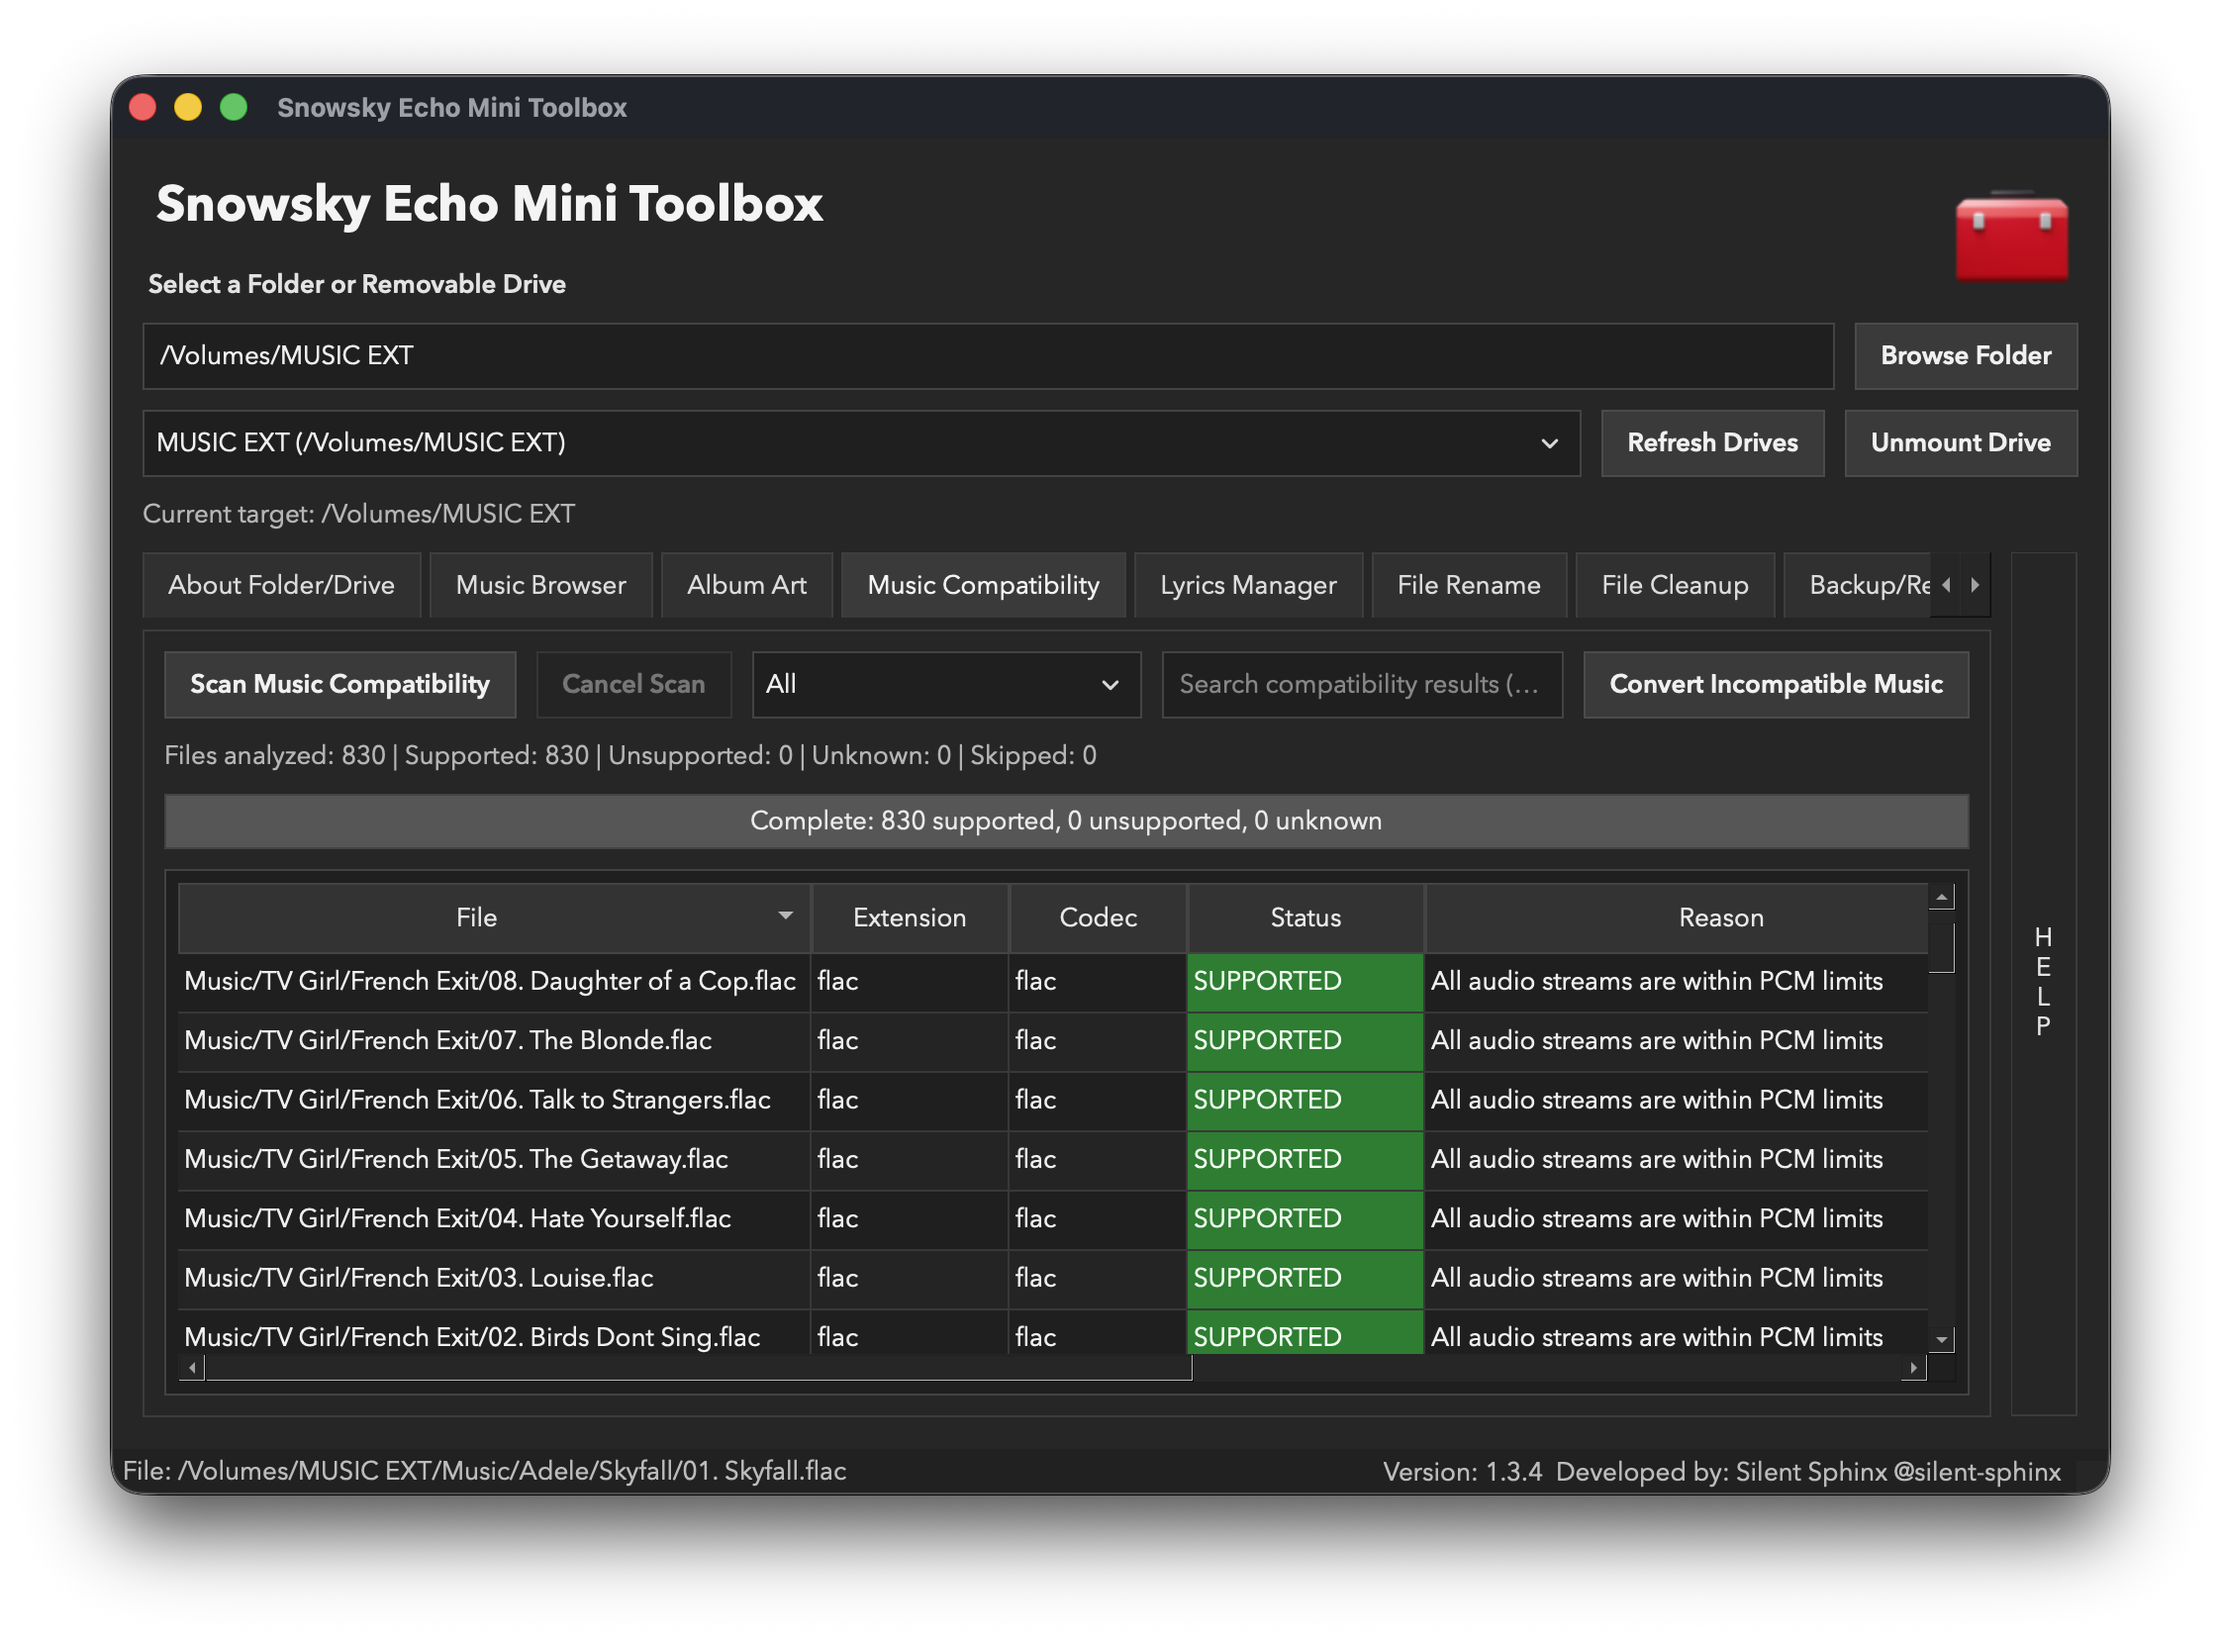
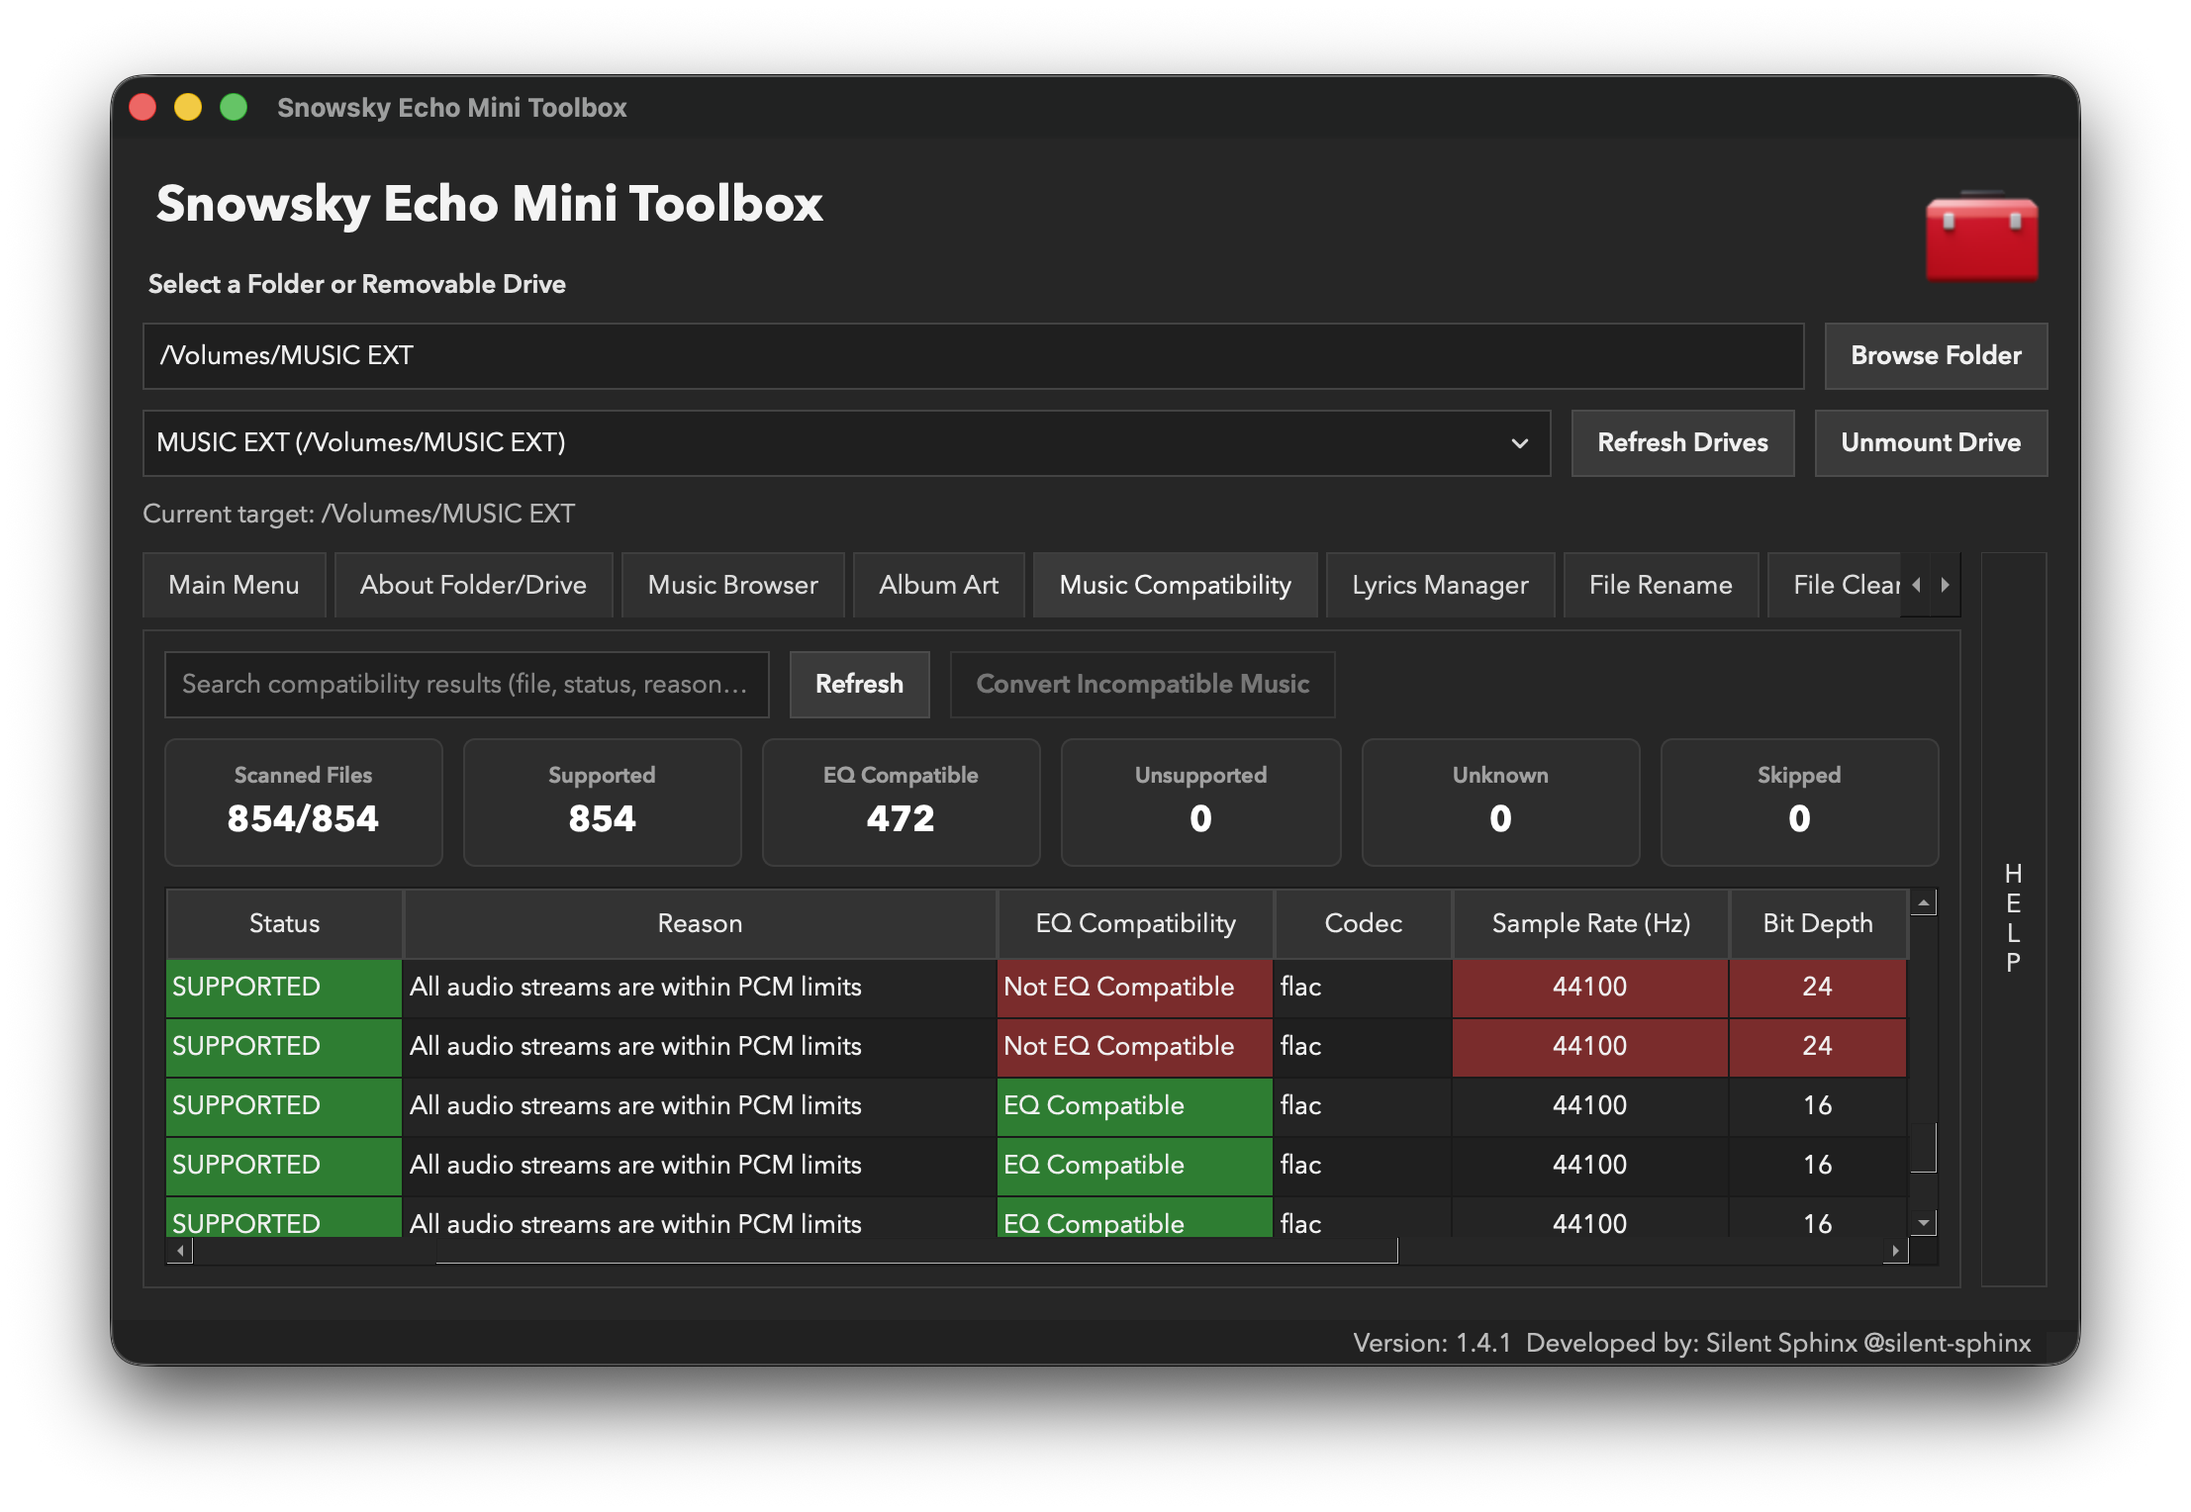
feat. Main Menu & Updated README.md

diff --git a/src/window.py b/src/window.py
@@ -27,6 +27,7 @@ from PySide6.QtWidgets import (
     QDialog,
     QFileDialog,
     QFileSystemModel,
+    QGridLayout,
     QHBoxLayout,
     QHeaderView,
     QInputDialog,
@@ -1797,6 +1798,7 @@ class ToolboxWindow(QMainWindow):
         self._dir_size_scan_worker: DirectorySizeScanWorker | None = None
         self._dir_size_scan_target: str | None = None
         self._pending_dir_size_scan_target: str | None = None
+        self._main_menu_tab_index = -1
         self._about_tab_index = -1
         self._music_compatibility_tab_index = -1
         self._lyrics_manager_tab_index = -1
@@ -2768,6 +2770,78 @@ class ToolboxWindow(QMainWindow):
         backup_restore_layout.addWidget(transfer_section)
         backup_restore_layout.addStretch(1)
 
+        main_menu_tab = QScrollArea()
+        main_menu_tab.setWidgetResizable(True)
+        main_menu_tab.setFrameShape(QFrame.NoFrame)
+        main_menu_content = QWidget()
+        main_menu_outer_layout = QVBoxLayout(main_menu_content)
+        main_menu_outer_layout.setContentsMargins(20, 20, 20, 20)
+        main_menu_outer_layout.setSpacing(20)
+        
+        welcome_text = (
+            "Welcome to the Snowsky Echo Mini Toolbox, your one-stop shop for organizing and converting your music media. "
+            "To start, select the location of your media by browsing or choosing one of the mounted drives at the top of the interface.\n\n"
+            "It is recommended to connect your microSD card directly to your computer using a USB reader, rather than plugging in the Snowsky Echo Mini itself, as the device uses a slower interface."
+        )
+        welcome_lbl = QLabel(welcome_text)
+        welcome_lbl.setWordWrap(True)
+        welcome_lbl.setStyleSheet("font-size: 14px; color: #E3E3E3; line-height: 1.4;")
+        main_menu_outer_layout.addWidget(welcome_lbl)
+        
+        main_menu_layout = QGridLayout()
+        main_menu_layout.setSpacing(15)
+        
+        tools = [
+            ("ℹ About Folder/Drive", "View details and properties of the selected target.", "_about_tab_index"),
+            ("📁 Music Browser", "Browse and manage music files with an integrated player.", "_directory_tab_index"),
+            ("🖼 Album Art", "Scan, download, and update embedded album artwork.", "_album_art_tab_index"),
+            ("🎵 Music Compatibility", "Check and fix audio format compatibility issues.", "_music_compatibility_tab_index"),
+            ("🎤 Lyrics Manager", "Download and embed synchronized lyrics (LRC).", "_lyrics_manager_tab_index"),
+            ("🏷 File Rename", "Bulk rename files based on rules and metadata.", "_file_rename_tab_index"),
+            ("🧹 File Cleanup", "Clean up unwanted and unsupported files.", "_cleanup_tab_index"),
+            ("📝 Metadata Manager", "Edit audio tags and properties in bulk.", "_metadata_manager_tab_index"),
+            ("💾 Backup/Restore", "Backup to zip or transfer files to another drive.", "_backup_restore_tab_index"),
+        ]
+        
+        row, col = 0, 0
+        for title, desc, attr_name in tools:
+            tile = QPushButton()
+            tile.setObjectName("mainMenuTile")
+            tile.setCursor(Qt.PointingHandCursor)
+            tile.setMinimumHeight(100)
+            
+            tile_layout = QVBoxLayout(tile)
+            tile_layout.setContentsMargins(15, 15, 15, 15)
+            tile_layout.setSpacing(8)
+            
+            title_lbl = QLabel(title)
+            title_lbl.setAttribute(Qt.WA_TransparentForMouseEvents)
+            title_lbl.setStyleSheet("font-size: 15px; font-weight: bold; color: #E3E3E3;")
+            
+            desc_lbl = QLabel(desc)
+            desc_lbl.setAttribute(Qt.WA_TransparentForMouseEvents)
+            desc_lbl.setWordWrap(True)
+            desc_lbl.setStyleSheet("color: #A0A0A0; font-size: 12px;")
+            
+            tile_layout.addWidget(title_lbl)
+            tile_layout.addWidget(desc_lbl)
+            tile_layout.addStretch()
+            
+            tile.clicked.connect(lambda checked=False, a=attr_name: self.tabs.setCurrentIndex(getattr(self, a)) if getattr(self, a, -1) != -1 and self.tabs.isTabEnabled(getattr(self, a)) else None)
+            
+            main_menu_layout.addWidget(tile, row, col)
+            col += 1
+            if col > 2:
+                col = 0
+                row += 1
+                
+        main_menu_layout.setRowStretch(row + 1, 1)
+        main_menu_outer_layout.addLayout(main_menu_layout)
+        main_menu_outer_layout.addStretch(1)
+        main_menu_content.setLayout(main_menu_outer_layout)
+        main_menu_tab.setWidget(main_menu_content)
+
+        self._main_menu_tab_index = self.tabs.addTab(main_menu_tab, "Main Menu")
         self._about_tab_index = self.tabs.addTab(about_tab, "About Folder/Drive")
         self._directory_tab_index = self.tabs.addTab(browser_tab, "Music Browser")
         self._album_art_tab_index = self.tabs.addTab(album_art_tab, "Album Art")
@@ -2781,7 +2855,7 @@ class ToolboxWindow(QMainWindow):
         self._backup_restore_tab_index = self.tabs.addTab(backup_restore_tab, "Backup/Restore")
         
         for i in range(self.tabs.count()):
-            if i != self._about_tab_index:
+            if i not in (self._main_menu_tab_index, self._about_tab_index):
                 self.tabs.setTabEnabled(i, False)
 
         self.tabs.currentChanged.connect(self.on_tab_changed)
@@ -2807,6 +2881,7 @@ class ToolboxWindow(QMainWindow):
         self.statusBar().addPermanentWidget(self.status_version_label)
         self.statusBar().addPermanentWidget(self.status_credit_label)
         self.statusBar().showMessage("Ready")
+        self.tabs.setCurrentIndex(self._main_menu_tab_index)
         # UI build complete
 
     def _on_path_input_editing_finished(self) -> None:
@@ -2939,8 +3014,6 @@ class ToolboxWindow(QMainWindow):
 
         help_by_tab = {
             "About Folder/Drive": (
-                "Welcome to the Snowsky Echo Mini Toolbox, your one-stop shop for organizing and converting your music media. To start, select the location of your media by browsing or choosing one of the mounted drives at the top of the interface.\n\n"
-                "It is recommended to connect your microSD card directly to your computer using a USB reader, rather than plugging in the Snowsky Echo Mini itself, as the device uses a slower interface.\n\n"
                 "The 'About Drive/Folder' tool is useful for ensuring that your microSD card is compatible with your Echo Mini.\n\n"
                 "Please note that editing file metadata is likely to corrupt its record in your favourites.\n\n"
                 "Filesystem Rules:\n"
@@ -3198,6 +3271,19 @@ class ToolboxWindow(QMainWindow):
                 background-color: #2D2D2D;
                 border: 1px solid #3C3C3C;
                 border-radius: 6px;
+            }
+            QPushButton#mainMenuTile {
+                background-color: #2D2D2D;
+                border: 1px solid #3C3C3C;
+                border-radius: 6px;
+                text-align: left;
+            }
+            QPushButton#mainMenuTile:hover {
+                background-color: #383838;
+                border: 1px solid #5A5A5A;
+            }
+            QPushButton#mainMenuTile:pressed {
+                background-color: #262626;
             }
             QLabel#statTitle {
                 color: #A0A0A0;
@@ -3615,12 +3701,12 @@ class ToolboxWindow(QMainWindow):
         has_browser_target = has_selected_drive or has_selected_directory
         
         for i in range(self.tabs.count()):
-            if i != self._about_tab_index:
+            if i not in (self._main_menu_tab_index, self._about_tab_index):
                 self.tabs.setTabEnabled(i, has_browser_target)
 
-        if not has_browser_target and self.tabs.currentIndex() != self._about_tab_index:
-            if self._about_tab_index >= 0:
-                self.tabs.setCurrentIndex(self._about_tab_index)
+        if not has_browser_target and self.tabs.currentIndex() not in (self._main_menu_tab_index, self._about_tab_index):
+            if self._main_menu_tab_index >= 0:
+                self.tabs.setCurrentIndex(self._main_menu_tab_index)
 
     def _set_cleanup_idle(self, message: str) -> None:
         self.cleanup_summary_label.setText(message)
@@ -5075,6 +5161,11 @@ class ToolboxWindow(QMainWindow):
 
     @Slot(int)
     def on_tab_changed(self, index: int) -> None:
+        if index == self._main_menu_tab_index:
+            self.help_container.hide()
+        else:
+            self.help_container.show()
+            
         self._update_help_for_tab(index)
         
         if index == self._album_art_tab_index and not self._album_art_initial_scan_done:
@@ -5108,8 +5199,8 @@ class ToolboxWindow(QMainWindow):
             self.browser_root_label.setText("")
             self.browser_tree.setEnabled(False)
             self.browser_size_progress.hide()
-            if self._about_tab_index >= 0:
-                self.tabs.setCurrentIndex(self._about_tab_index)
+            if self._main_menu_tab_index >= 0:
+                self.tabs.setCurrentIndex(self._main_menu_tab_index)
             return
 
         self._directory_scan_armed = True

diff --git a/README.md b/README.md
@@ -5,7 +5,7 @@
 [![UI](https://img.shields.io/badge/UI-PySide6-41CD52)](https://doc.qt.io/qtforpython-6/)
 ![Status](https://img.shields.io/badge/status-active%20development-2ea44f)
 
-An easy desktop app to prepare your music folders and USB drives for the Snowsky Echo Mini.
+An easy (unofficial) desktop app to prepare your music folders and USB drives for the Snowsky Echo Mini.
 
 ![Overview](Overview.png)
 
@@ -34,6 +34,8 @@ Please help the community by submitting a bug report—your feedback helps impro
 
 ## Main Features
 
+- Main Menu:
+  - A welcome dashboard with quick access tiles to all available tools.
 - Music Compatibility:
   - Checks if your media is compatible with the Snowsky Echo Mini.
   - Automatically convert your incompatible media to a compatible audio format.
@@ -45,6 +47,8 @@ Please help the community by submitting a bug report—your feedback helps impro
 - Lyrics Manager:
   - Scans embedded lyrics.
   - Can create .lrc lyric files and do LRCLIB bulk lookup.
+- Metadata Manager:
+  - Edit audio tags and properties in bulk.
 - File Rename:
   - Suggests cleaner file names from metadata before you apply changes.
 - File Cleanup:
